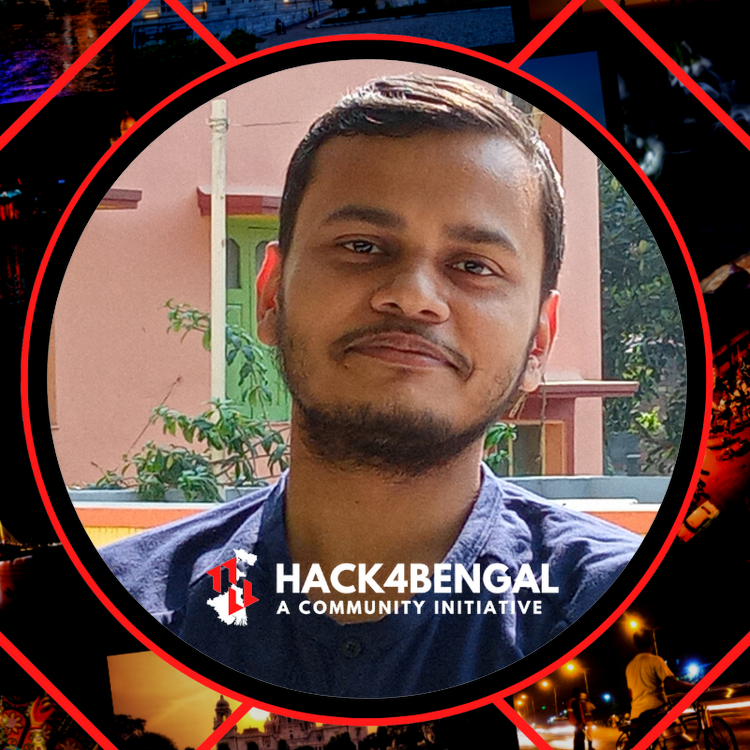
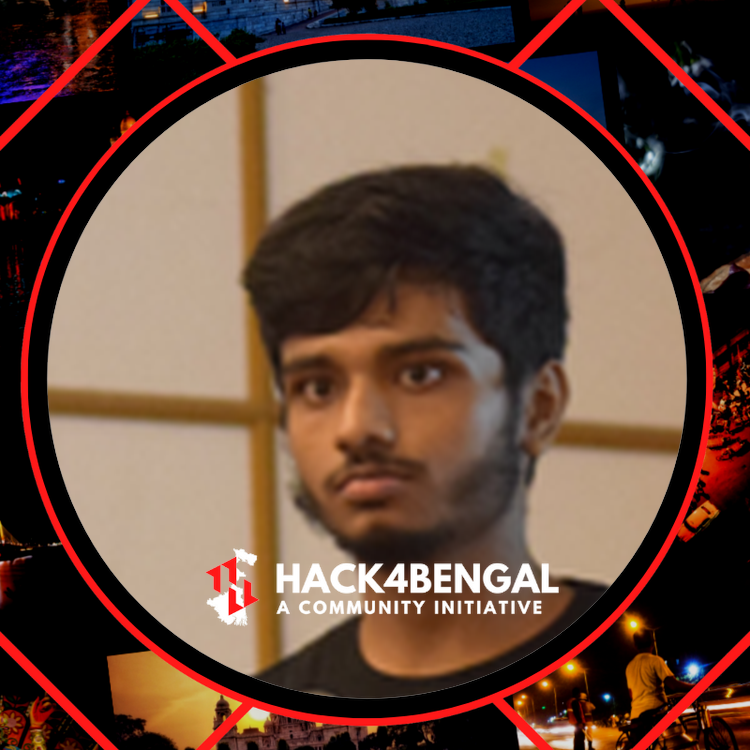
crop feature

diff --git a/app.py b/app.py
@@ -9,15 +9,34 @@ from bokeh.models import CustomJS
 from streamlit_bokeh_events import streamlit_bokeh_events
 from io import StringIO
 from PIL import Image
-st.set_page_config(
-    page_title="Qwiklabs Progress Generator",
-    page_icon="🤖",
-    layout="centered",
-    initial_sidebar_state="expanded"
-)
+from streamlit_cropper import st_cropper
+st.set_option('deprecation.showfileUploaderEncoding', False)
+
+# Upload an image and set some options for demo purposes
+st.header("Cropper Demo")
 image_file = st.file_uploader("Upload Image", type=['jpg', 'png', 'jpeg'])
-miletry = 1
-if image_file is not None:
+realtime_update = st.sidebar.checkbox(label="Update in Real Time", value=True)
+box_color = st.sidebar.color_picker(label="Box Color", value='#0000FF')
+aspect_choice = st.sidebar.radio(label="Aspect Ratio", options=[
+                                 "1:1", "16:9", "4:3", "2:3", "Free"])
+aspect_dict = {
+    "1:1": (1, 1)
+}
+aspect_ratio = aspect_dict[aspect_choice]
+
+if image_file:
+    img = Image.open(image_file)
+    if not realtime_update:
+        st.write("Double click to save crop")
+    # Get a cropped image from the frontend
+    cropped_img = st_cropper(img, realtime_update=realtime_update, box_color=box_color,
+                             aspect_ratio=aspect_ratio)
+
+    # Manipulate cropped image at will
+    st.write("Preview")
+    _ = cropped_img.thumbnail((150, 150))
+    st.image(cropped_img)
+    miletry = 1
     size = (750, 750)
     if miletry == 1:
         img = Image.open("frame.png")
@@ -32,13 +51,13 @@ if image_file is not None:
         img = Image.open("nomile.png").convert("RGB")
     img = img.resize(size, Image.ANTIALIAS)
     img2 = img2.resize(size, Image.ANTIALIAS)
-    card = Image.open(image_file)
+    # card = Image.open(image_file)
 
-    card = card.resize(size, Image.ANTIALIAS)
+    card = cropped_img.resize(size, Image.ANTIALIAS)
 
-    card2 = Image.open(image_file)
+    # card2 = Image.open(image_file)
 
-    card2 = card2.resize(size, Image.ANTIALIAS)
+    card2 = cropped_img.resize(size, Image.ANTIALIAS)
 
     card.paste(img, (0, 0), img)
 

diff --git a/app2.py b/app2.py
@@ -1,0 +1,33 @@
+import streamlit as st
+from streamlit_cropper import st_cropper
+from PIL import Image
+st.set_option('deprecation.showfileUploaderEncoding', False)
+
+# Upload an image and set some options for demo purposes
+st.header("Cropper Demo")
+img_file = st.sidebar.file_uploader(label='Upload a file', type=['png', 'jpg'])
+realtime_update = st.sidebar.checkbox(label="Update in Real Time", value=True)
+box_color = st.sidebar.color_picker(label="Box Color", value='#0000FF')
+aspect_choice = st.sidebar.radio(label="Aspect Ratio", options=[
+                                 "1:1", "16:9", "4:3", "2:3", "Free"])
+aspect_dict = {
+    "1:1": (1, 1),
+    "16:9": (16, 9),
+    "4:3": (4, 3),
+    "2:3": (2, 3),
+    "Free": None
+}
+aspect_ratio = aspect_dict[aspect_choice]
+
+if img_file:
+    img = Image.open(img_file)
+    if not realtime_update:
+        st.write("Double click to save crop")
+    # Get a cropped image from the frontend
+    cropped_img = st_cropper(img, realtime_update=realtime_update, box_color=box_color,
+                             aspect_ratio=aspect_ratio)
+
+    # Manipulate cropped image at will
+    st.write("Preview")
+    _ = cropped_img.thumbnail((150, 150))
+    st.image(cropped_img)
